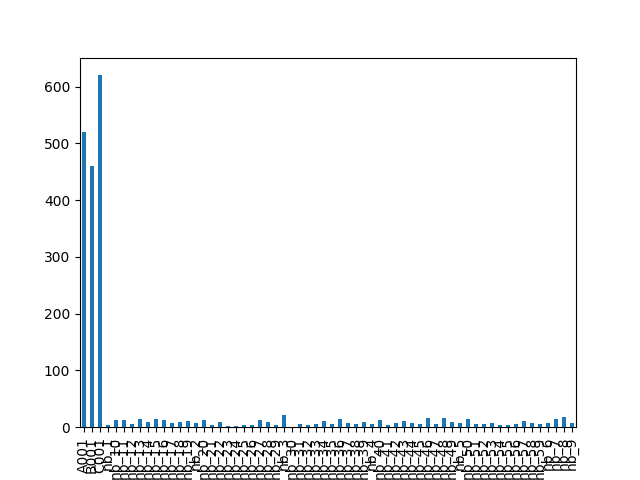
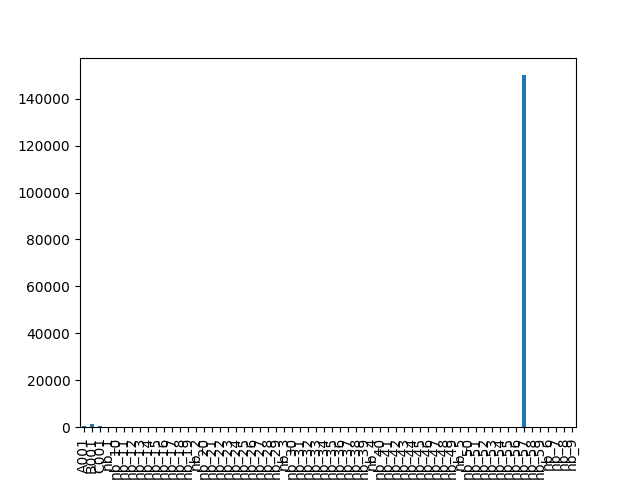
네비게이션 바 수정

diff --git a/JM_ERP/src/main/resources/templates/navbar.html b/JM_ERP/src/main/resources/templates/navbar.html
@@ -56,7 +56,7 @@
                <li class="nav-item dropdown">
                     <a class="nav-link dropdown-toggle mainmenu-link navfontsize" data-bs-toggle="dropdown" href="#" role="button" aria-haspopup="true" aria-expanded="false">Marketing</a>
                     <div class="dropdown-menu">
-                        <a class="dropdown-item" href="http://localhost:8080/SD/member/list">영업 관리</a>
+                        <a class="dropdown-item" href="http://localhost:8080/SD/sale/best">영업 관리</a>
                         <a class="dropdown-item" href="http://localhost:8080/SD/member/list">고객 관리</a>
                         <a class="dropdown-item" href="http://localhost:8080/SD/seller/list">판매자 관리</a>
                         <a class="dropdown-item" href="http://localhost:8080/SD/product/nb">상품 관리</a>

diff --git a/JM_ERP/src/main/java/com/example/demo/Service/SD_PurchaseService.java b/JM_ERP/src/main/java/com/example/demo/Service/SD_PurchaseService.java
@@ -1,11 +1,5 @@
 package com.example.demo.Service;
 
-import java.io.BufferedReader;
-import java.io.IOException;
-import java.io.InputStreamReader;
-import java.nio.charset.StandardCharsets;
-import java.nio.file.Files;
-import java.nio.file.Path;
 import java.util.List;
 
 import org.springframework.data.domain.Page;
@@ -15,7 +9,6 @@ import org.springframework.stereotype.Service;
 
 import com.example.demo.Entity.SD_Purchase;
 import com.example.demo.Repository.SD_PurchaseRepository;
-import com.fasterxml.jackson.databind.ObjectMapper;
 
 import lombok.RequiredArgsConstructor;
 
@@ -24,7 +17,6 @@ import lombok.RequiredArgsConstructor;
 public class SD_PurchaseService {
 
 	private final SD_PurchaseRepository purchaseRepository;
-	private final ObjectMapper objectMapper; // SD_Purchase 리스트를 JSON 문자열로 변환
 
 	// 고객 모두 조회 (페이징)
 	public Page<SD_Purchase> searchAll(int page) {
@@ -47,68 +39,4 @@ public class SD_PurchaseService {
 		return purchaseRepository.findByMemberId(memberId, pageable);
 	}
 
-	// 파이썬과 스프링부트를 연결
-	public String executePythonScript() {
-		String outputPath = "src/main/resources/static/img/SD_output.png"; // 그래프를 이미지(SD_output)로 저장할 파일 경로
-		try {
-			
-			// SD_Purchase 데이터를 JSON 문자열 데이터로 변환
-	        String jsonData = getSDPurchaseDataAsJson();
-			
-			// JSON 데이터를 임시 파일에 저장
-	        Path tempFile = Files.createTempFile(null, ".json");
-	        Files.write(tempFile, jsonData.getBytes(StandardCharsets.UTF_8));	// CP949 오류 있어서 UTF-8로 변경
-
-	        // 임시 파일의 경로를 파이썬 스크립트에 인자로 전달						// 파이썬 파일 경로 지정	  // 인자 1				// 인자 2
-	        ProcessBuilder processBuilder = new ProcessBuilder("python", "python/purchase.py", tempFile.toString(), outputPath);
-	        Process process = processBuilder.start();
-
-			BufferedReader reader = new BufferedReader(new InputStreamReader(process.getInputStream()));
-
-			
-			
-			// 표준 출력 읽기 : 로그에서 오류 확인용
-			BufferedReader stdError = new BufferedReader(new InputStreamReader(process.getErrorStream()));  // 표준 오류 스트림
-			BufferedReader stdInput = new BufferedReader(new InputStreamReader(process.getInputStream()));
-			String s;
-			while ((s = stdInput.readLine()) != null) {
-			    System.out.println(s);
-			}
-			// 표준 오류 출력 읽기 : 로그에서 오류 확인용
-			while ((s = stdError.readLine()) != null) {
-			    System.err.println(s);
-			}
-			
-			
-			
-			
-			String line;
-			while ((line = reader.readLine()) != null) {
-				System.out.println(line);
-			}
-
-			int exitCode = process.waitFor();
-			System.out.println("\nExited with error code : " + exitCode);
-			
-			// 임시 파일 삭제하는게 깔끔
-	        Files.delete(tempFile);
-
-	        return "/img/SD_output.png"; // 그래프 이미지 파일 경로 반환
-
-		} catch (IOException | InterruptedException e) {
-			e.printStackTrace();
-			return null;
-		}
-	}
-	
-	// SD_Purchase 데이터를 조회하고 JSON 문자열로 변환
-	public String getSDPurchaseDataAsJson() {
-		try {
-			List<SD_Purchase> purchases = this.getList(); // 모든 구매 데이터 조회
-			return objectMapper.writeValueAsString(purchases); // JSON 문자열로 변환
-		} catch (Exception e) {
-			e.printStackTrace();
-			return null; // 오류 발생 시 null 반환 또는 적절한 예외 처리
-		}
-	}
 }

diff --git a/JM_ERP/src/main/java/com/example/demo/Service/SD_SaleService.java b/JM_ERP/src/main/java/com/example/demo/Service/SD_SaleService.java
@@ -1,0 +1,92 @@
+package com.example.demo.Service;
+
+import java.io.BufferedReader;
+import java.io.IOException;
+import java.io.InputStreamReader;
+import java.nio.charset.StandardCharsets;
+import java.nio.file.Files;
+import java.nio.file.Path;
+import java.util.List;
+
+import org.springframework.stereotype.Service;
+
+import com.example.demo.Entity.SD_Purchase;
+import com.example.demo.Repository.SD_PurchaseRepository;
+import com.fasterxml.jackson.databind.ObjectMapper;
+
+import lombok.RequiredArgsConstructor;
+
+@RequiredArgsConstructor
+@Service
+// 그래프 출력 관련 메서드 모아둠!!
+public class SD_SaleService {
+
+	private final SD_PurchaseRepository purchaseRepository;
+	private final ObjectMapper objectMapper;
+
+	public List<SD_Purchase> getList() {
+		return this.purchaseRepository.findAll();
+	}
+
+	// 파이썬과 스프링부트를 연결
+	public String executePythonScript() {
+		String outputPath = "src/main/resources/static/img/SD_output.png"; // 그래프를 이미지(SD_output)로 저장할 파일 경로
+		try {
+
+			// SD_Purchase 데이터를 JSON 문자열 데이터로 변환
+			String jsonData = getSDPurchaseDataAsJson();
+
+			// JSON 데이터를 임시 파일에 저장
+			Path tempFile = Files.createTempFile(null, ".json");
+			Files.write(tempFile, jsonData.getBytes(StandardCharsets.UTF_8)); // CP949 오류 있어서 UTF-8로 변경
+
+			// 임시 파일의 경로를 파이썬 스크립트에 인자로 전달 // 파이썬 파일 경로 지정 // 인자 1 // 인자 2
+			ProcessBuilder processBuilder = new ProcessBuilder("python", "python/purchase.py", tempFile.toString(),
+					outputPath);
+			Process process = processBuilder.start();
+
+			BufferedReader reader = new BufferedReader(new InputStreamReader(process.getInputStream()));
+
+			// 표준 출력 읽기 : 로그에서 오류 확인용
+			BufferedReader stdError = new BufferedReader(new InputStreamReader(process.getErrorStream())); // 표준 오류 스트림
+			BufferedReader stdInput = new BufferedReader(new InputStreamReader(process.getInputStream()));
+			String s;
+			while ((s = stdInput.readLine()) != null) {
+				System.out.println(s);
+			}
+			// 표준 오류 출력 읽기 : 로그에서 오류 확인용
+			while ((s = stdError.readLine()) != null) {
+				System.err.println(s);
+			}
+
+			String line;
+			while ((line = reader.readLine()) != null) {
+				System.out.println(line);
+			}
+
+			int exitCode = process.waitFor();
+			System.out.println("\nExited with error code : " + exitCode);
+
+			// 임시 파일 삭제하는게 깔끔
+			Files.delete(tempFile);
+
+			return "/img/SD_output.png"; // 그래프 이미지 파일 경로 반환
+
+		} catch (IOException | InterruptedException e) {
+			e.printStackTrace();
+			return null;
+		}
+	}
+
+	// SD_Purchase 데이터를 조회하고 JSON 문자열로 변환
+	public String getSDPurchaseDataAsJson() {
+		try {
+			List<SD_Purchase> purchases = this.getList(); // 모든 구매 데이터 조회
+			return objectMapper.writeValueAsString(purchases); // JSON 문자열로 변환
+		} catch (Exception e) {
+			e.printStackTrace();
+			return null; // 오류 발생 시 null 반환 또는 적절한 예외 처리
+		}
+	}
+
+}

diff --git a/JM_ERP/src/main/java/com/example/demo/Controller/SD_SaleController.java b/JM_ERP/src/main/java/com/example/demo/Controller/SD_SaleController.java
@@ -7,6 +7,7 @@ import org.springframework.web.bind.annotation.GetMapping;
 import org.springframework.web.bind.annotation.RequestMapping;
 
 import com.example.demo.Service.SD_PurchaseService;
+import com.example.demo.Service.SD_SaleService;
 
 import lombok.RequiredArgsConstructor;
 
@@ -17,13 +18,14 @@ public class SD_SaleController {
 	
 	@Autowired
 	private final SD_PurchaseService purchaseService;
+	private final SD_SaleService saleService;
 
 
 // 인기상품 그래프 출력할 화면   
 	@GetMapping("/best")
 	public String bestGraph(Model model) {
-		String graphHtmlPath = purchaseService.executePythonScript();
+		String graphHtmlPath = saleService.executePythonScript();
         model.addAttribute("graphHtmlPath", graphHtmlPath);
-		return "SD/SD_purchaseData";
+		return "SD/SD_best";
 	}
 }
